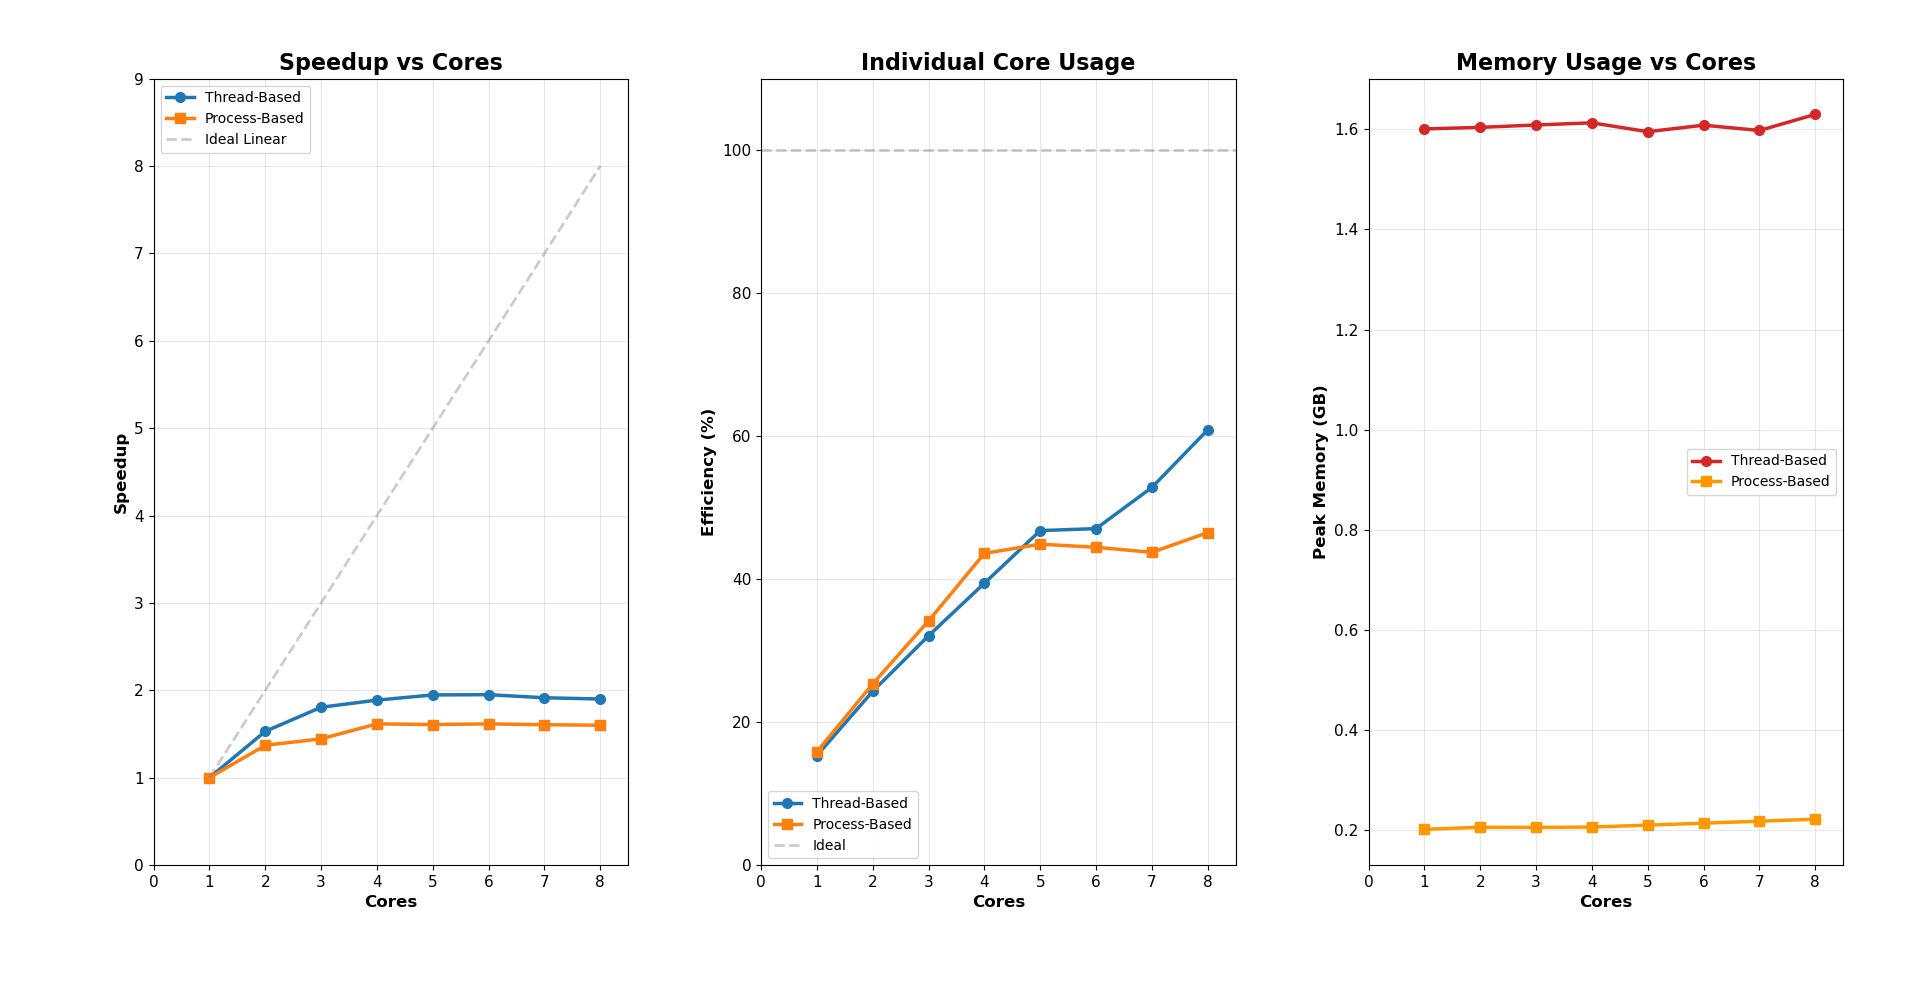
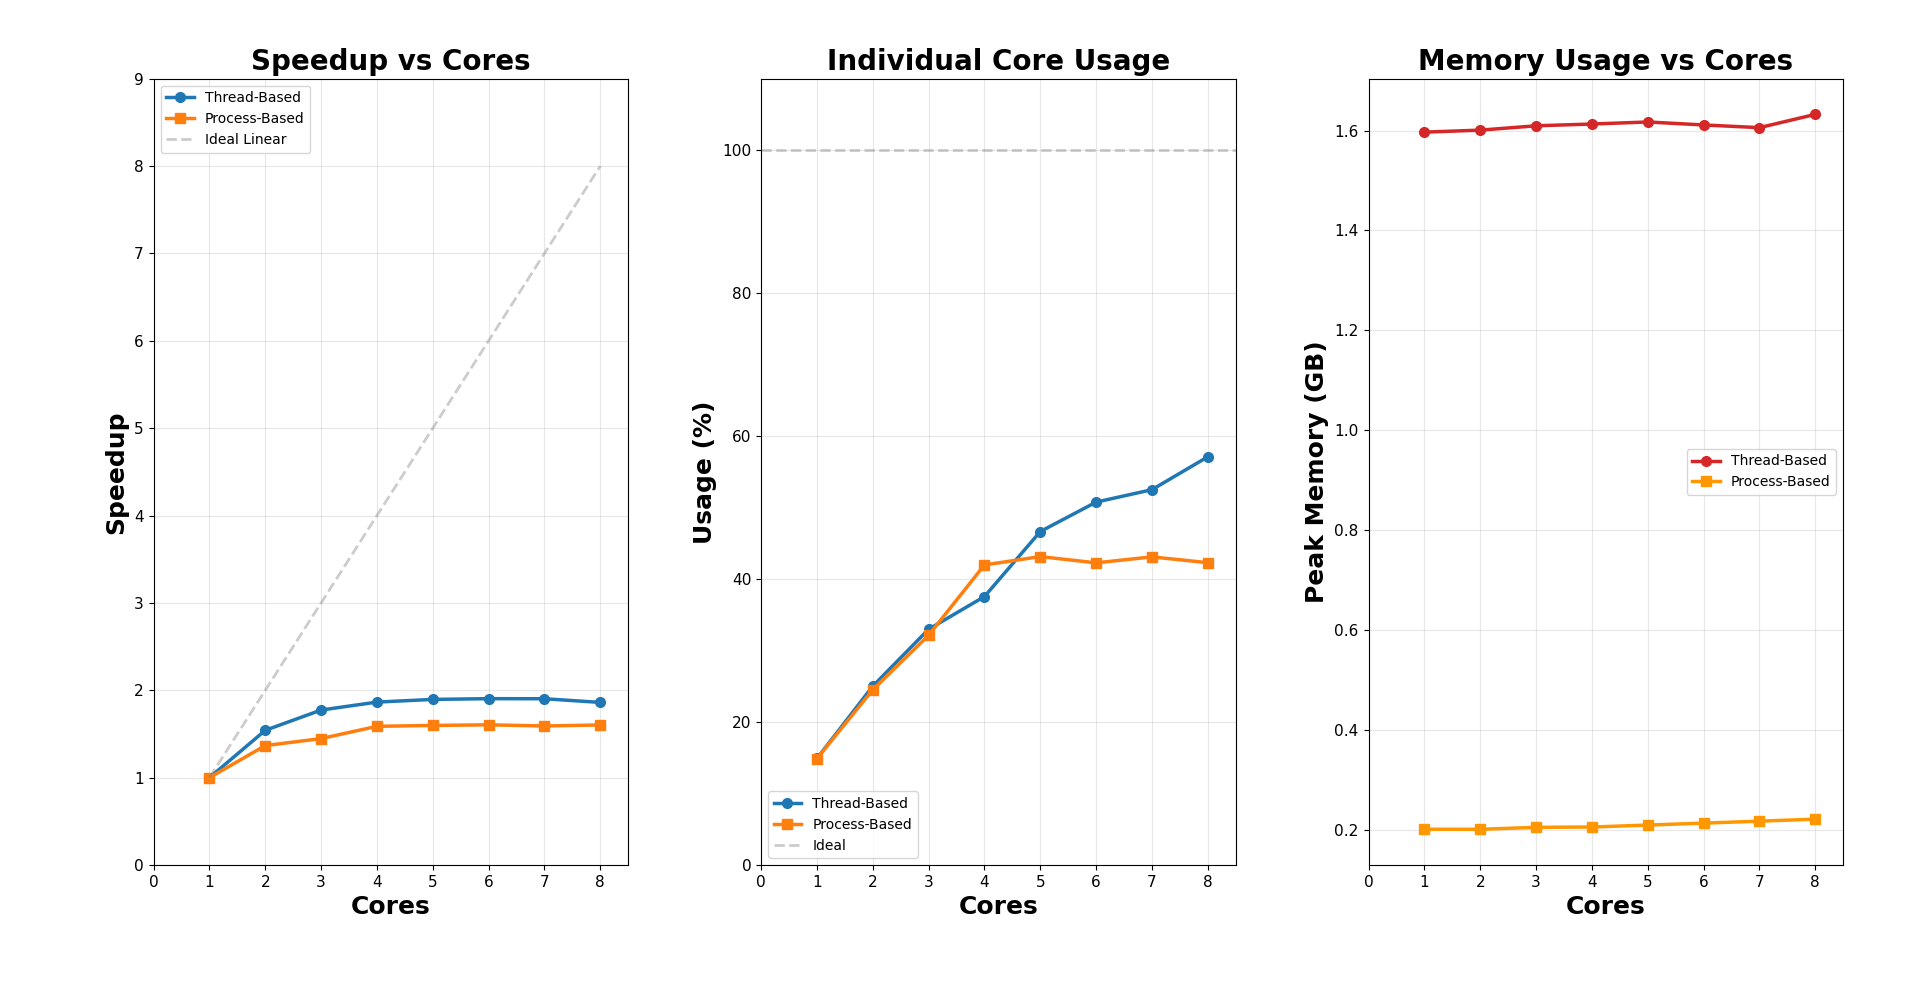
Replot both figures

diff --git a/cpu_implementation/cpu_util_comparison.py b/cpu_implementation/cpu_util_comparison.py
@@ -118,6 +118,7 @@ def calculate_efficiency_metrics(results, baseline_cores=1):
 def scalability_test(backproj_module, implementation_name):
     """Test backprojection scalability for a given implementation."""
     core_counts = [1, 2, 3, 4, 5, 6, 7, 8, 9, 10, 11, 12]
+    # core_counts = [1, 2, 3, 4, 5, 6, 7, 8]
     max_cores = psutil.cpu_count()
     core_counts = [c for c in core_counts if c <= max_cores]
 
@@ -159,10 +160,10 @@ def scalability_test(backproj_module, implementation_name):
 
 def create_comparison_plots(metrics_tb, metrics_pb, cores_tb, cores_pb, timestamp):
     """Generate comparison plots for thread-based and process-based implementations."""
-    # fig, axes = plt.subplots(1, 3, figsize=(18, 4))
-    fig, axes = plt.subplots(1, 3, figsize=(15, 3))
-    title_size = 18
-    label_size = 14
+    fig, axes = plt.subplots(1, 3, figsize=(10, 3), dpi=100)
+    title_size = 20
+    label_size = 18
+    tick_size = 11
 
     # Extract data
     cores_t = sorted(metrics_tb.keys())
@@ -178,45 +179,46 @@ def create_comparison_plots(metrics_tb, metrics_pb, cores_tb, cores_pb, timestam
     memory_p = [metrics_pb[c]['peak_memory_gb'] for c in cores_p]
 
     # Speedup vs Cores
-    axes[0].plot(cores_t, speedup_t, 'o-', label='Thread-Based', linewidth=2, markersize=8)
-    axes[0].plot(cores_p, speedup_p, 's-', label='Process-Based', linewidth=2, markersize=8)
-    axes[0].plot(cores_t, cores_t, '--', alpha=0.5, label='Ideal Linear', color='gray')
-    axes[0].set_xlabel('Cores', fontsize=label_size)
-    axes[0].set_ylabel('Speedup', fontsize=label_size)
+    axes[0].plot(cores_t, speedup_t, 'o-', label='Thread-Based', linewidth=2.5, markersize=7, color='#1f77b4')
+    axes[0].plot(cores_p, speedup_p, 's-', label='Process-Based', linewidth=2.5, markersize=7, color='#ff7f0e')
+    axes[0].plot(cores_t, cores_t, '--', alpha=0.4, label='Ideal Linear', color='gray', linewidth=2)
+    axes[0].set_xlabel('Cores', fontsize=label_size, fontweight='bold')
+    axes[0].set_ylabel('Speedup', fontsize=label_size, fontweight='bold')
     axes[0].set_title('Speedup vs Cores', fontsize=title_size, fontweight='bold')
-    axes[0].legend(fontsize=10)
+    axes[0].legend(fontsize=10, loc='upper left')
     axes[0].grid(True, alpha=0.3)
+    axes[0].tick_params(labelsize=tick_size)
+    axes[0].set_xlim(0, max(cores_t) + 0.5)
+    axes[0].set_ylim(0, max(cores_t) + 1)
 
     # Individual Core Usage
-    axes[1].plot(cores_t, usage_t, 'o-', label='Thread-Based', linewidth=2, markersize=8)
-    axes[1].plot(cores_p, usage_p, 's-', label='Process-Based', linewidth=2, markersize=8)
-    axes[1].axhline(100, color='gray', linestyle='--', alpha=0.5, label='Ideal')
-    axes[1].set_xlabel('Cores', fontsize=label_size)
-    axes[1].set_ylabel('Efficiency (%)', fontsize=label_size)
+    axes[1].plot(cores_t, usage_t, 'o-', label='Thread-Based', linewidth=2.5, markersize=7, color='#1f77b4')
+    axes[1].plot(cores_p, usage_p, 's-', label='Process-Based', linewidth=2.5, markersize=7, color='#ff7f0e')
+    axes[1].axhline(100, color='gray', linestyle='--', alpha=0.4, linewidth=2, label='Ideal')
+    axes[1].set_xlabel('Cores', fontsize=label_size, fontweight='bold')
+    axes[1].set_ylabel('Usage (%)', fontsize=label_size, fontweight='bold')
     axes[1].set_title('Individual Core Usage', fontsize=title_size, fontweight='bold')
-    axes[1].legend(fontsize=10)
+    axes[1].legend(fontsize=10, loc='best')
     axes[1].grid(True, alpha=0.3)
-
-    # Efficiency Per Cores
-    # axes[2].plot(cores_t, efficiency_t, 'o-', label='Thread-Based', linewidth=2, markersize=8)
-    # axes[2].plot(cores_p, efficiency_p, 's-', label='Process-Based', linewidth=2, markersize=8)
-    # axes[2].axhline(100, color='gray', linestyle='--', alpha=0.5, label='Ideal')
-    # axes[2].set_xlabel('Cores', fontsize=label_size)
-    # axes[2].set_ylabel('Efficiency (%)', fontsize=label_size)
-    # axes[2].set_title('Efficiency Per Cores', fontsize=title_size, fontweight='bold')
-    # axes[2].legend(fontsize=10)
-    # axes[2].grid(True, alpha=0.3)
+    axes[1].tick_params(labelsize=tick_size)
+    axes[1].set_xlim(0, max(cores_t) + 0.5)
+    axes[1].set_ylim(0, 110)
 
     # Memory Usage vs Cores
-    axes[2].plot(cores_t, memory_t, 'o-', label='Thread-Based', linewidth=2, markersize=8, color='red')
-    axes[2].plot(cores_p, memory_p, 's-', label='Process-Based', linewidth=2, markersize=8, color='orange')
-    axes[2].set_xlabel('Cores', fontsize=label_size)
-    axes[2].set_ylabel('Peak Memory (GB)', fontsize=label_size)
+    axes[2].plot(cores_t, memory_t, 'o-', label='Thread-Based', linewidth=2.5, markersize=7, color='#d62728')
+    axes[2].plot(cores_p, memory_p, 's-', label='Process-Based', linewidth=2.5, markersize=7, color='#ff9800')
+    axes[2].set_xlabel('Cores', fontsize=label_size, fontweight='bold')
+    axes[2].set_ylabel('Peak Memory (GB)', fontsize=label_size, fontweight='bold')
     axes[2].set_title('Memory Usage vs Cores', fontsize=title_size, fontweight='bold')
-    axes[2].legend(fontsize=10)
+    axes[2].legend(fontsize=10, loc='best')
     axes[2].grid(True, alpha=0.3)
+    axes[2].tick_params(labelsize=tick_size)
+    axes[2].set_xlim(0, max(cores_t) + 0.5)
 
-    plt.tight_layout()
+    # Consistent layout
+    fig.subplots_adjust(left=0.08, right=0.96, top=0.92, bottom=0.12, wspace=0.28)
+    
+    fig.savefig(f'comparison_{timestamp}.png', dpi=100, bbox_inches='tight')
     plt.show()
 
     # plot_filename = f'data/scalability_test_result/backprojection_comparison_{timestamp}.png'
